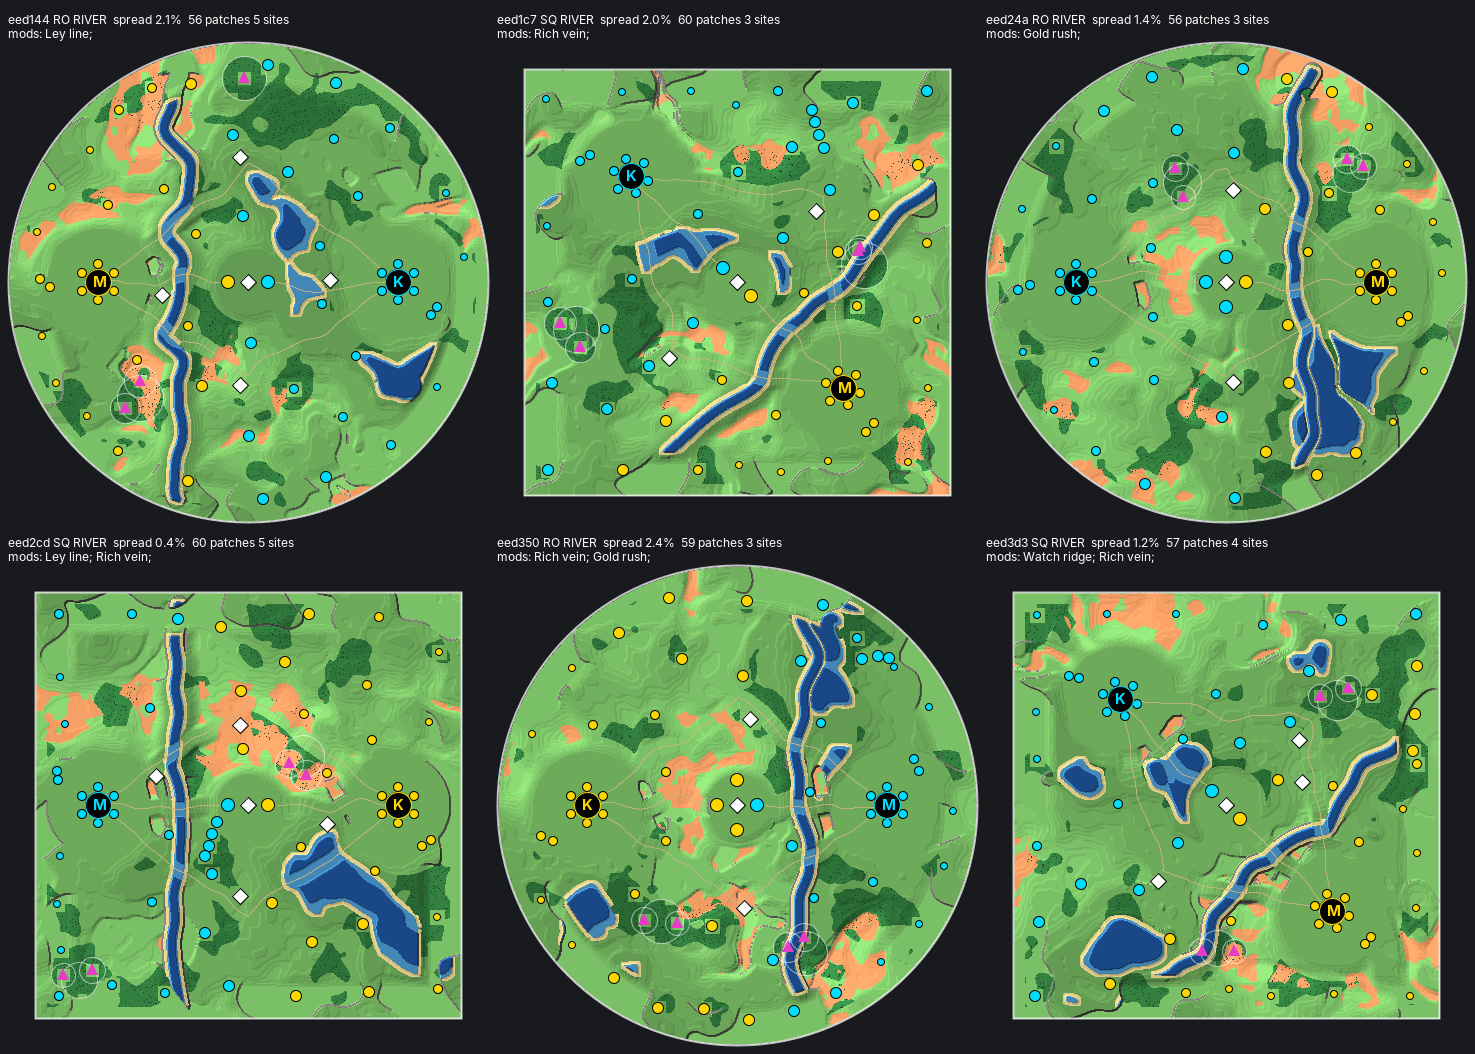
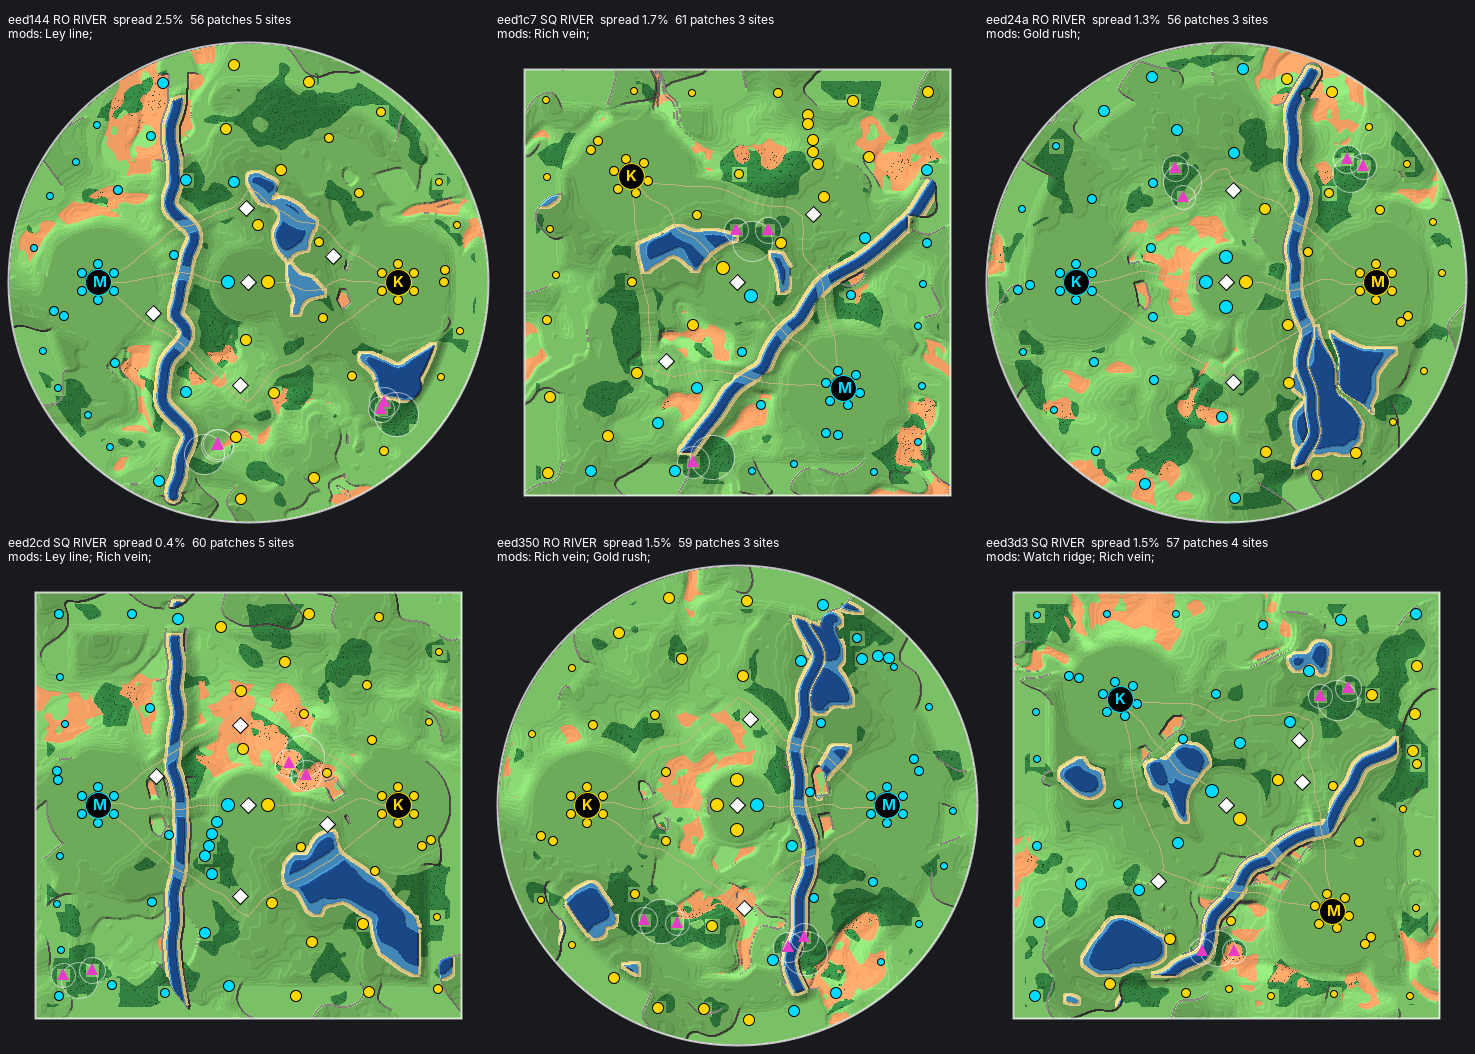
Generated maps report: re-run on the rebased tip (0d2ece45), data-only camps scored at zero
Why: the branch moved while the report was written (lobby maps now price data-only camps at zero; design/maps.md section 7
landed). Balance, robustness, timing and the GameTest sweep were re-run on the new code; the robustness harness now draws
its weights through Weights.live() like the lobby.

Claude-Session: https://claude.ai/code/session_01A82BejBx5pTbBZLK1W8yf4

diff --git a/tools/mapgen_sim/src/com/solegendary/reignofnether/maps/gen/MapGenSim.java b/tools/mapgen_sim/src/com/solegendary/reignofnether/maps/gen/MapGenSim.java
@@ -67,7 +67,7 @@ public final class MapGenSim {
                 GenRng r = GenRng.stream(seedOf(i) ^ 0xABCDEF, "weights");
                 int ok = 0; double sp = 0;
                 for (int k = 0; k < draws; k++) {
-                    Fairness.Weights w = Fairness.Weights.CENTRAL.sample(r);
+                    Fairness.Weights w = Fairness.Weights.CENTRAL.sample(r).live();   // the lobby scores data-only camps at zero
                     Fairness.Context c = new Fairness.Context(geo, w);
                     Fairness.Report rep = c.report(geo.rows(m.mexes));
                     if (rep.spread() <= 0.05 + 1e-9) ok++;

diff --git a/design/generated-maps-report.md b/design/generated-maps-report.md
@@ -1,7 +1,9 @@
 # Generated maps: report
 
 PR #131, branch `claude/maps-generated` (draft, based on #122 `claude/maps-m1-metal`).
-Written Oct 22 from the PR body, the commit messages and the code on the branch.
+Written Oct 22 from the PR body, the commit messages and the code on the branch. Numbers are from the branch tip
+`0d2ece45` (the multiplayer lobby, the modifier chat message, the raise test and `design/maps.md` section 7 are in).
+Section 7 of `design/maps.md` is the design summary; this file is the numbers and the open problems.
 lovish's ask (Oct 21 22:28): "a way to automatically generate maps that are intricate and sometimes changes rng with
 different buffs and bonuses. The random map can give one side more neutral objectives with the other side giving more
 mexes." His Oct 21 decisions: balanced asymmetry, seats within about 5%, square maps as well as round, room kept for
@@ -13,7 +15,8 @@ Every number below is marked **re-run** or **carried over**.
 
 - **Re-run** means I ran it on the branch in this session with `tools/mapgen_sim/run.sh`. It needs only a JDK. It
   compiles `maps/gen` (plus `MapLayout`, `MapPreset`, `MetalOptions`, and a stub of `CapturePointServerEvents.Kind`)
-  and runs without Minecraft or Gradle. The container had 2 cores.
+  and runs without Minecraft or Gradle. Lobby maps score the data-only camps at zero (`Weights.live()`, applied by
+  `generate` when `liveOnly`); every re-run below does too. The container had 2 cores.
 - **Carried over** means it came from the PR work before this session and I could not reproduce it from what is on
   the branch.
 
@@ -77,12 +80,13 @@ streams in `GenRng.java`, `StrictMath` trig, sqrt not hypot). The lobby preview 
   If a balanced draw is invalid or still outside the tolerance, `generate` tries up to 4 fresh draws and keeps the
   best.
 - **Lobby** (`SkirmishSetupScreen.java`, `GenSeed.java`). "Generated" is in the map list. A **New** button rolls a new
-  seed for any stamped map. **Shape** (Any / Round / Square) and **Mods** (On / Off / Surprise) sit in the Size row.
+  seed for any stamped map (the multiplayer lobby has one too, and now carries a seed for every stamped map). **Shape** (Any / Round / Square) and **Mods** (On / Off / Surprise) sit in the Size row.
   The options ride the top byte of the seed, so no packet or save changes. The preview draws on a worker thread and
   names the modifiers. `MapPreset.GENERATED` is appended to the enum.
 - **Tests.** `MapGenGameTests.java` (batch `maps_gen`): determinism, every seat reaches everything, level pads,
   reserved zones, seats within tolerance, square edge helpers, options ride the seed, layout carries the generator's
-  map. The symmetric preset tests sweep `handmade()` maps only.
+  map, and `generated_map_raises_in_its_arena` (MapBuilder raises windows of a generated map). The symmetric preset
+  tests sweep `handmade()` maps only.
 
 ## Balance results
 
@@ -95,30 +99,30 @@ modifiers only, 5% tolerance, central weights). Seeds `0x5EED000000 + 7919 i`.
 
 | Balancer | Within 5% | Mean spread | Worst |
 |---|---|---|---|
-| NONE | 63.0% | 4.55% | 50.9% |
-| REROLL | 100% | 2.28% | 4.98% |
-| NUDGE | 100% | 2.23% | 3.99% |
-| SWAP | 100% | 1.36% | 4.88% |
-| **SWAP_NUDGE** | **100%** | **1.37%** | **3.91%** |
-| REROLL_NUDGE | 100% | 1.86% | 3.99% |
+| NONE | 62.5% | 4.55% | 50.9% |
+| REROLL | 100% | 2.34% | 4.98% |
+| NUDGE | 100% | 2.32% | 4.00% |
+| SWAP | 100% | 1.43% | 4.96% |
+| **SWAP_NUDGE** | **100%** | **1.40%** | **3.84%** |
+| REROLL_NUDGE | 100% | 1.86% | 3.89% |
 
 - All 200 maps are valid under every balancer.
-- NONE is 63% here. The earlier run recorded 68-80% for the unbalanced draw. The seeds differ, so I expect the
-  gap to be seed luck. By contrast, my NONE rates were MIXED 73%, RIVER 63%, PROSPECTOR_WARDEN 61%, OPEN_BASTION 60%.
+- NONE is 62.5% here. The earlier run recorded 68-80% for the unbalanced draw. The seeds differ, so I expect the
+  gap to be seed luck. By contrast, my NONE rates were MIXED 69%, RIVER 61%, PROSPECTOR_WARDEN 61%, OPEN_BASTION 62%.
 
 4v4, 40 seeds (new in this report):
 
 | Balancer | Within 5% | Mean spread | Worst |
 |---|---|---|---|
-| NONE | 0% | 21.5% | 33.2% |
-| REROLL | 0% | 10.9% | 13.7% |
-| NUDGE | 100% | 3.31% | 4.00% |
-| SWAP | 0% | 12.5% | 19.5% |
-| **SWAP_NUDGE** | **100%** | **3.49%** | **4.00%** |
-| REROLL_NUDGE | 100% | 3.37% | 4.00% |
+| NONE | 0% | 21.6% | 33.8% |
+| REROLL | 2.5% | 11.2% | 14.7% |
+| NUDGE | 100% | 3.36% | 3.99% |
+| SWAP | 2.5% | 12.6% | 19.7% |
+| **SWAP_NUDGE** | **100%** | **3.32%** | **3.98%** |
+| REROLL_NUDGE | 100% | 3.30% | 3.98% |
 
-At 4v4 only the nudge makes the seats even. Reroll and swap alone cannot. Every nudged map ends at 4.00%, which is
-the nudge's own stop line (80% of 5%).
+At 4v4 only the nudge makes the seats even. Reroll and swap alone cannot. Every nudged map ends at or just under
+4.0%, which is the nudge's own stop line (80% of 5%).
 
 ### Robustness under weight uncertainty (re-run, definition mine)
 
@@ -127,14 +131,14 @@ The weights in the score are guesses. For each 1v1 map I drew 40 weight sets fro
 
 | Contrast (maps) | NONE | SWAP_NUDGE |
 |---|---|---|
-| MIXED (11) | 0.63 | 0.83 |
-| OPEN_BASTION (23) | 0.58 | 0.70 |
-| PROSPECTOR_WARDEN (39) | 0.40 | 0.43 |
-| RIVER (27) | 0.63 | 0.93 |
+| MIXED (11) | 0.56 | 0.81 |
+| OPEN_BASTION (23) | 0.58 | 0.67 |
+| PROSPECTOR_WARDEN (39) | 0.40 | 0.44 |
+| RIVER (27) | 0.65 | 0.94 |
 | All | 0.53 | 0.67 |
 
 - PROSPECTOR_WARDEN is the weakest, as the earlier run found (about 0.5 then). Balancing barely helps it (0.40 to
-  0.43), while the other contrasts gain 0.1 to 0.3.
+  0.44), while MIXED and RIVER gain 0.25 to 0.3 and OPEN_BASTION 0.1.
 - Why: a Prospector's edge is metal and a Warden's edge is neutral objectives. The score trades the two at
   `energyPerMetal`, `camp`, `garrison` and the other site weights. Those weights are the least certain, so the
   balance moves with them.
@@ -145,10 +149,10 @@ The weights in the score are guesses. For each 1v1 map I drew 40 weight sets fro
 
 | Figure | Value | Status |
 |---|---|---|
-| Plain-Java port of the GameTest sweep (`run.sh gametest`: 2/4/8 seats, the 4 test seeds, 12 maps) | 0 problems, worst seat spread 3.98%, team spread within 5% | **Re-run.** The test code itself was not run: it needs the game, so CI runs it |
-| In-repo GameTest mirror, "24 maps, 0 problems, worst 4.0%" | worst spread 4.0% matches my 3.98% | Carried over. The test sweeps 12 maps, so I could not explain "24" |
+| Plain-Java port of the GameTest sweep (`run.sh gametest`: 2/4/8 seats, the 4 test seeds, 12 maps) | 0 problems, worst seat spread 3.90%, team spread within 5% | **Re-run.** The test code itself was not run: it needs the game, so CI runs it |
+| In-repo GameTest mirror, "24 maps, 0 problems, worst 4.0%" | worst spread 4.0% matches my 3.90% | Carried over. The test sweeps 12 maps, so I could not explain "24" |
 | Econ-sim side bias after SWAP+NUDGE, up to 1.3% | not reproducible | **Carried over.** No economy simulation exists on the branch. The score is the only model |
-| Build time at 4v4, about 145 ms | one raw build (NONE) took a median 216 ms, p90 402 ms. The default balanced generate took a median 1.47 s, p90 1.60 s. 1v1: raw 129 ms, balanced 517 ms | **Re-run** (2-core container, 30 builds after warm-up). 145 ms matches a raw build on a faster machine, not the balanced default |
+| Build time at 4v4, about 145 ms | one raw build (NONE) took a median 182 ms, p90 208 ms. The default balanced generate took a median 1.43 s, p90 1.52 s. 1v1: raw 123 ms, balanced 479 ms | **Re-run** (2-core container, 30 builds after warm-up, run alone). 145 ms matches a raw build on a faster machine, not the balanced default |
 
 ## Render sheets
 
@@ -177,26 +181,26 @@ still needs the CI eyes tour.
 ## Known weak spots
 
 1. **Prospector / Warden is fragile.** It is the most common contrast (36% of AUTO rolls) and has the lowest
-   robustness (0.43). The cross-resource trade is the cause.
-2. **At 4v4 only the nudge balances, and it stops at exactly 4.0%.** Reroll and swap never reach 5% on their own.
+   robustness (0.44). The cross-resource trade is the cause.
+2. **At 4v4 only the nudge balances, and it stops at about 4.0%.** Reroll and swap never reach 5% on their own.
    The margin to the 5% promise is a fixed 20%. A wrong weight can spend it.
-3. **Balanced generation is slow at 4v4.** The default takes about 1.5 s in my container, about 7 times a raw build.
+3. **Balanced generation is slow at 4v4.** The default takes about 1.4 s in my container, about 8 times a raw build (`design/maps.md` section 7 also says 1-2 s).
    It runs on a worker thread in the lobby preview but probably blocks the server at match start. I did not
    measure the match-start path.
 4. **The score is a model, not a measurement.** No economy simulation backs it on the branch. The earlier "econ-sim
    at most 1.3%" figure cannot be checked from here. The weights are guesses with ranges and none of them is
    calibrated against play.
 5. **The MIRROR control has a seam.** It reflects every field across the line through the centre that is perpendicular
-   to the sides' axis (`GenTerrain.sym`). In 6 round mirror maps, 538 of 1206 columns along that line had a height
+   to the sides' axis (`GenTerrain.sym`). On the earlier tip (the terrain code is unchanged since), in 6 round mirror maps, 538 of 1206 columns along that line had a height
    jump of 2 or more against its neighbours. Away from the line it was 6 of 1206. A Prospector / Warden map, checked the same way, showed
    none (8 of 1206); I did not check the other contrasts. The sheets show it as a straight line through the middle. The mirror is also not exact: up to
    332 of 40401 columns differ from their point mirror, and the seat spread is 0.1-0.5%, not 0.
 6. **Three modifiers and the camps are data only** (Hero relic, Hydra lair, Fog valleys; creep and relic camps). They
-   place spots but do nothing in game. The fairness score still prices camps, hydra and relics, so those weights
-   count for nothing until the mechanics exist.
-7. **Doc gap.** Code comments in `MapGenerator`, `GenMap` and `GenOptions` point to `design/maps.md` "Generated
-   maps" and to "the report". `design/maps.md` has no such section on this branch. This file is the report.
-8. **Untested in game.** The in-engine GameTests were not run here, and the look of the built map has not been seen.
+   place spots but do nothing in game. Lobby maps now score them at zero, so no seat is paid for them. Maps made
+   with `liveOnly` false (experiments) still price them, and those weights count for nothing until the mechanics
+   exist.
+7. **Untested in game for balance and look.** The in-engine GameTests were not run here, and the look of the built
+   map has not been seen.
 
 ## Recommended next steps
 
@@ -214,7 +218,7 @@ still needs the CI eyes tour.
    in the lobby.
 7. Build the data-only mechanics (hero relic, hydra lair, fog valleys) one at a time, then add them to the lobby's
    live list.
-8. Write the "Generated maps" section in `design/maps.md`, linking this file.
+8. Link this file from `design/maps.md` section 7 (it says the numbers are in the PR).
 
 ## Reproduce
 
